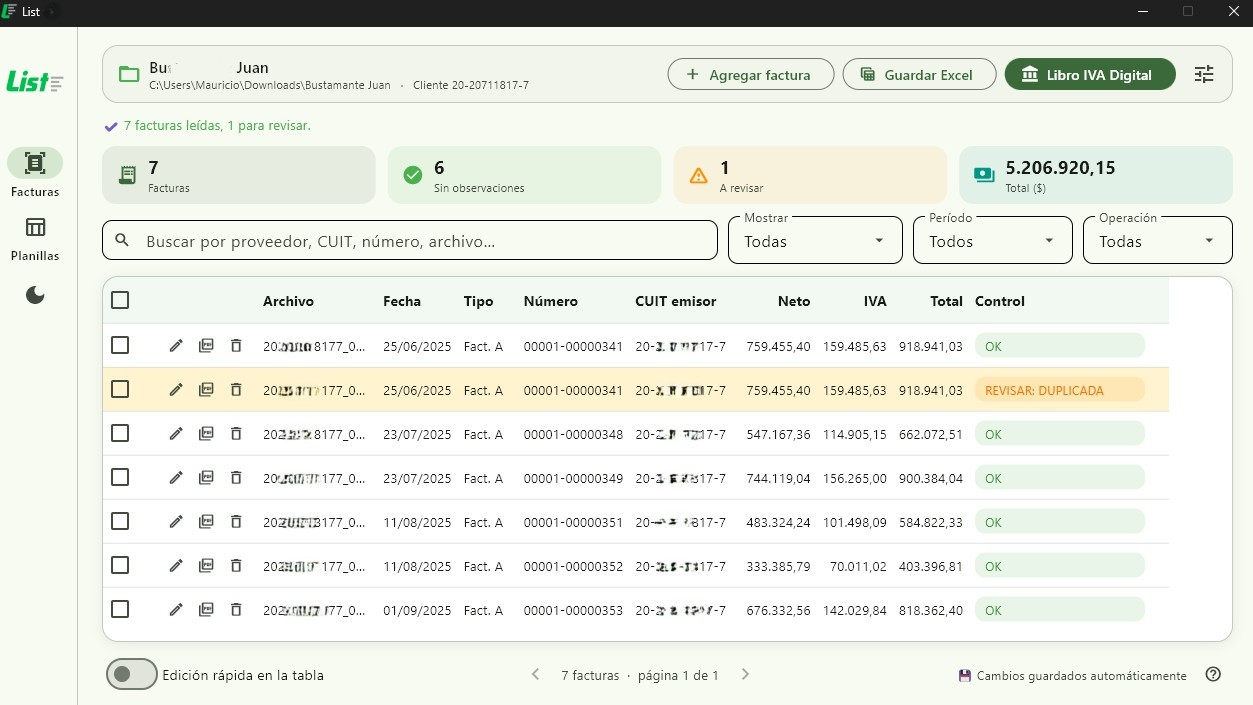
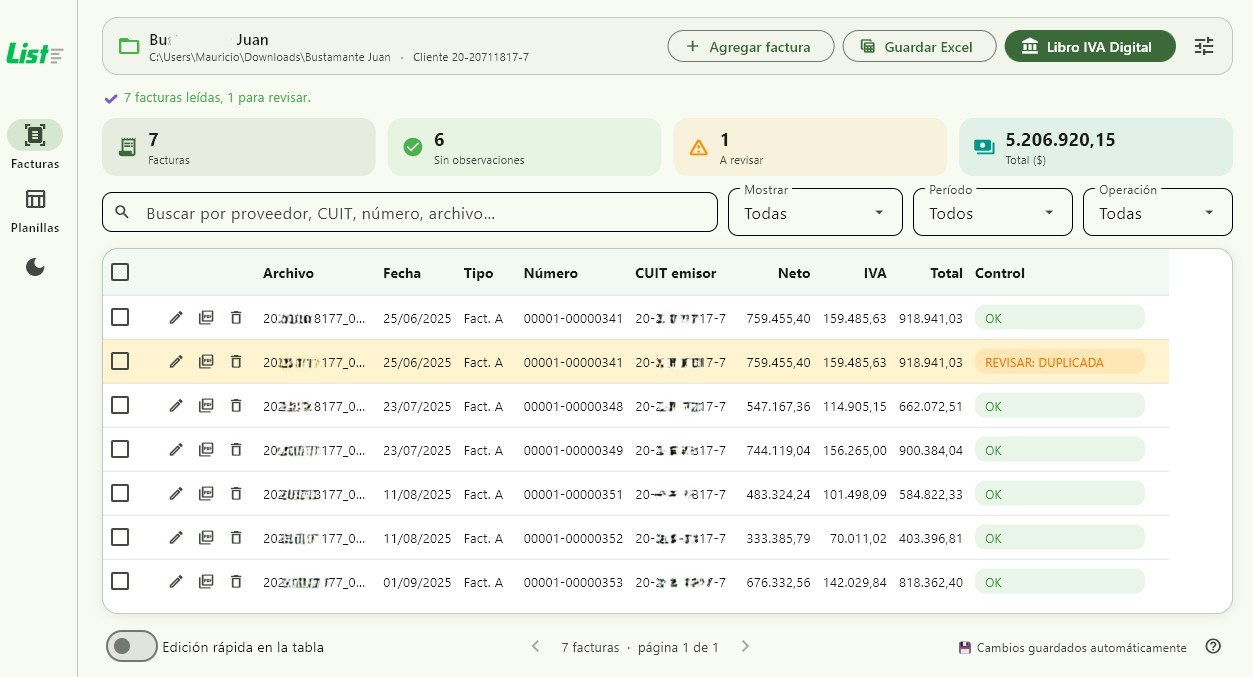
acorrijo captura de pantalla

diff --git a/index.html b/index.html
@@ -5,7 +5,7 @@
   <meta name="viewport" content="width=device-width, initial-scale=1">
   <meta name="theme-color" content="#101813">
   <meta name="description" content="List convierte facturas PDF a Excel y Libro IVA Digital, lee PDF escaneados y unifica planillas. Trabajá sin internet y conservá tus datos localmente.">
-  <title>List — Menos tareas repetitivas. Más control.</title>
+  <title>List</title>
   <link rel="preconnect" href="https://fonts.googleapis.com">
   <link rel="preconnect" href="https://fonts.gstatic.com" crossorigin>
   <link href="https://fonts.googleapis.com/css2?family=DM+Sans:wght@400;500;600;700&family=Manrope:wght@400;500;600;700;800&display=swap" rel="stylesheet">
